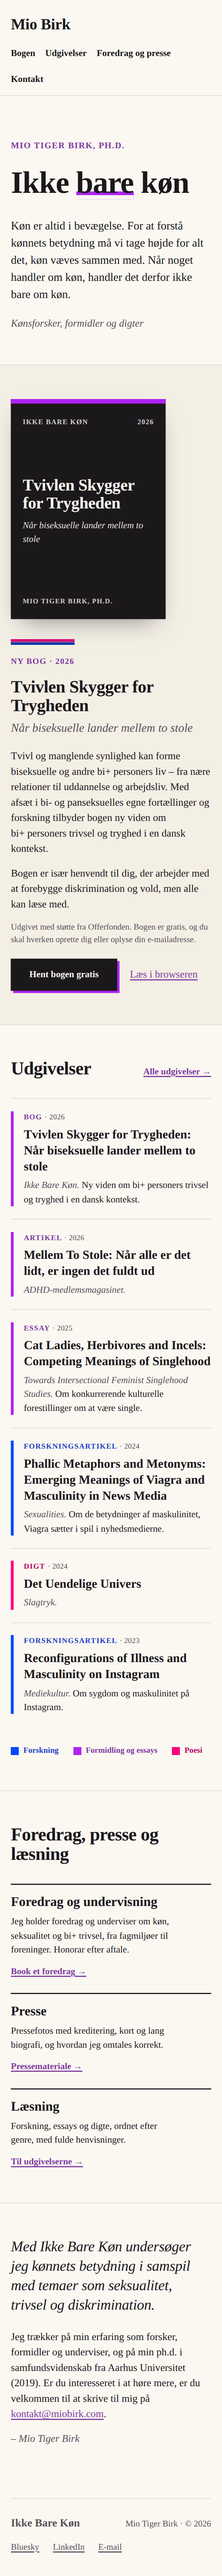
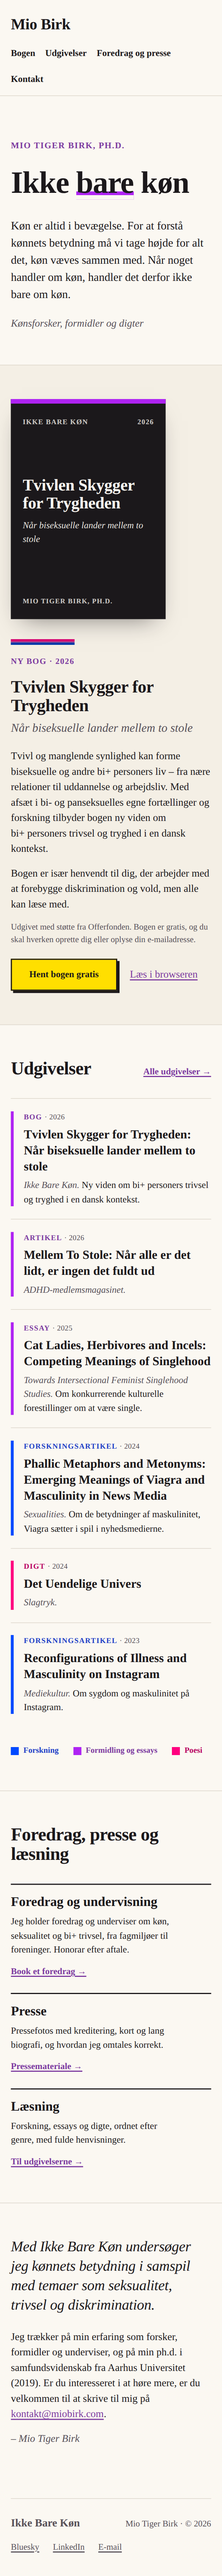
Overlappet chosen; add the reload.dk-inspired yellow action colour
Ole picked Overlappet (retning 7) and asked for a green or yellow neon
complement, pointing to reload.dk. Reload's measured system (site.css
tokens) pairs a warm near-black and cream with one loud warm yellow,
hsl(51 100% 65%), carrying all the action work. Yellow was chosen over
green to match that Danish register.

The yellow joins the system with a strict job: actions only. The
primary button (ink on #FFDE33, 13.2:1), hover underlines, nav hover
and text selection are yellow; the bi-flag triad continues to say what
things are, and the yellow says what you can do. It is never text and
never a register, so the round-3 fence (colours only where genre words
anchor them) holds. P3 form color(display-p3 1 .88 .15) behind
@supports as with the other accents.

Natlaesning stays as a candidate dark scheme and Overstregning's
one-mark hero as an available variant; next step is scaffolding the
SvelteKit site from Overlappet.

Claude-Session: https://claude.ai/code/session_01J3ibStbM354Uyysr7SDB7m

Changed region(s): [[0.0308, 0.3746, 0.5538, 0.4058]]

diff --git a/design/directions/retning-7-overlappet.html b/design/directions/retning-7-overlappet.html
@@ -23,6 +23,9 @@
   --rosa-tekst:#B8005F;
   --lilla-tekst:#7C3AA0;
   --blaa-tekst:#1C3FC7;
+  /* The action colour (after reload.dk): what you can DO is yellow;
+     what things ARE stays with the triad. Never used as text. */
+  --gul:#FFDE33;
   /* Flag-canonical, used only in the tri-stripe rule */
   --flag-rosa:#D60270; --flag-lilla:#9B4F96; --flag-blaa:#0038A8;
 }
@@ -31,8 +34,10 @@
     --rosa:color(display-p3 .937 .02 .494);
     --lilla:color(display-p3 .63 .19 .92);
     --blaa:color(display-p3 .05 .28 .96);
+    --gul:color(display-p3 1 .88 .15);
   }
 }
+::selection{background:var(--gul);color:var(--ink)}
 *{margin:0;padding:0;box-sizing:border-box}
 @media (prefers-reduced-motion: reduce){*{transition:none!important}}
 body{
@@ -42,9 +47,9 @@ body{
   -webkit-font-smoothing:antialiased;
 }
 .fr{font-family:Fraunces,serif;font-optical-sizing:auto}
-a{color:var(--lilla-tekst);text-decoration-thickness:1.5px;text-underline-offset:3px;transition:color .18s ease,text-decoration-thickness .18s ease}
-a:hover{color:var(--ink);text-decoration-thickness:2.5px;text-decoration-color:var(--lilla)}
-a:focus-visible{outline:2.5px solid var(--lilla);outline-offset:3px}
+a{color:var(--lilla-tekst);text-decoration-thickness:1.5px;text-underline-offset:3px;transition:color .18s ease,text-decoration-thickness .18s ease,text-decoration-color .18s ease}
+a:hover{color:var(--ink);text-decoration-thickness:4px;text-decoration-color:var(--gul)}
+a:focus-visible{outline:2.5px solid var(--ink);outline-offset:3px}
 .skip{position:absolute;left:-9999px;background:var(--ink);color:var(--paper);padding:.6rem 1rem;z-index:10}
 .skip:focus{left:1rem;top:1rem}
 .wrap{max-width:70rem;margin:0 auto;padding:0 clamp(1.2rem,4vw,2.8rem)}
@@ -63,7 +68,7 @@ header .bar{display:flex;justify-content:space-between;align-items:baseline;gap:
 .brand:hover{color:var(--lilla-tekst);text-decoration:none}
 nav ul{list-style:none;display:flex;gap:clamp(1.1rem,3vw,2rem);flex-wrap:wrap}
 nav a{font-size:1rem;font-weight:600;color:var(--ink);text-decoration:none}
-nav a:hover{color:var(--ink);box-shadow:0 2px 0 var(--lilla)}
+nav a:hover{color:var(--ink);box-shadow:0 3px 0 var(--gul)}
 header{border-bottom:1px solid var(--rule)}
 
 /* Hero */
@@ -105,12 +110,12 @@ header{border-bottom:1px solid var(--rule)}
 .book-text .fine{font-size:.92rem;color:var(--ink-soft)}
 .actions{display:flex;flex-wrap:wrap;align-items:center;gap:.9rem 1.4rem;margin-top:1.4rem}
 .btn{
-  display:inline-block;background:var(--ink);color:var(--paper);text-decoration:none;
+  display:inline-block;background:var(--gul);color:var(--ink);text-decoration:none;
   font-weight:600;font-size:1rem;padding:.85rem 1.9rem;border:2px solid var(--ink);
-  box-shadow:4px 4px 0 var(--lilla);
-  transition:box-shadow .18s ease,transform .18s ease;
+  box-shadow:4px 4px 0 var(--ink);
+  transition:box-shadow .18s ease,transform .18s ease,background .18s ease;
 }
-.btn:hover{box-shadow:6px 6px 0 var(--lilla);transform:translate(-1px,-1px);color:var(--paper)}
+.btn:hover{box-shadow:6px 6px 0 var(--ink);transform:translate(-1px,-1px);background:var(--paper);color:var(--ink)}
 
 /* Publications: the register system at work */
 .toc{list-style:none;max-width:48rem}
@@ -126,7 +131,7 @@ header{border-bottom:1px solid var(--rule)}
 .toc .t-meta .yr{color:var(--ink-soft);font-weight:500;letter-spacing:.02em}
 .toc h3{grid-column:2;font-weight:600;font-size:1.35rem;line-height:1.3;margin-top:.2rem}
 .toc h3 a{color:var(--ink);text-decoration:none}
-.toc h3 a:hover{box-shadow:0 2px 0 var(--reg,var(--rosa))}
+.toc h3 a:hover{box-shadow:0 3px 0 var(--gul)}
 .toc .t-sub{grid-column:2;margin-top:.25rem;font-size:1.02rem}
 .toc .t-sub .venue{font-style:italic;color:var(--ink-soft)}
 .reg-key{list-style:none;display:flex;gap:1.6rem;flex-wrap:wrap;margin-top:2rem;font-size:.88rem;font-weight:600}

diff --git a/design/TYPOGRAPHY-COLOUR.md b/design/TYPOGRAPHY-COLOUR.md
@@ -99,3 +99,20 @@ darker text variants exist for every accent used on light grounds.
 
 Flag-canonical values (`#D60270`, `#9B4F96`, `#0038A8`) are reserved for
 the one place the flag itself is quoted (the tri-stripe rule device).
+
+## The action colour (added after Ole chose Overlappet)
+
+Ole pointed to reload.dk as reference and asked for a green or yellow neon
+to complement the triad. Reload's measured system (their site.css tokens)
+is Space Grotesk and Space Mono on a warm near-black `hsl(32 25% 10%)`,
+warm cream, and one loud warm yellow `hsl(51 100% 65%)` doing the action
+work, with blunt Danish microcopy. Yellow was chosen over green: it is the
+Danish register, and it stays clear of the trans-flag pastel field that a
+soft green-adjacent palette could drift towards.
+
+| Token | sRGB fallback | display-p3 | Use |
+|---|---|---|---|
+| gul | `#FFDE33` | `color(display-p3 1 .88 .15)` | actions only: the primary button (ink text, 13.2:1), hover underlines, nav hover, ::selection. Never as text, never as a register. |
+
+The semantic split keeps the triad's fence intact: the triad says what
+things are (registers of her work); the yellow says what you can do.

diff --git a/design/DESIGN-DIRECTIONS.md b/design/DESIGN-DIRECTIONS.md
@@ -1,5 +1,12 @@
 # Design directions for miobirk.com, round 3
 
+**Decision (Ole, 2026-07-10): Overlappet (retning 7) is the direction.**
+It has since been extended with a neon yellow action colour inspired by
+reload.dk (see `TYPOGRAPHY-COLOUR.md`, "The action colour"): the triad
+carries what things are, the yellow carries what you can do. Natlæsning
+remains a candidate dark scheme; Overstregning's one-mark hero remains an
+available variant. Next step: scaffold the SvelteKit site from Overlappet.
+
 Round 2 was declined as tame. Round 3 keeps the structural lessons (claim-led
 hero, the free book as primary action, three doors, writing by register,
 honest copy) and rebuilds the visual identity on the deep research recorded
